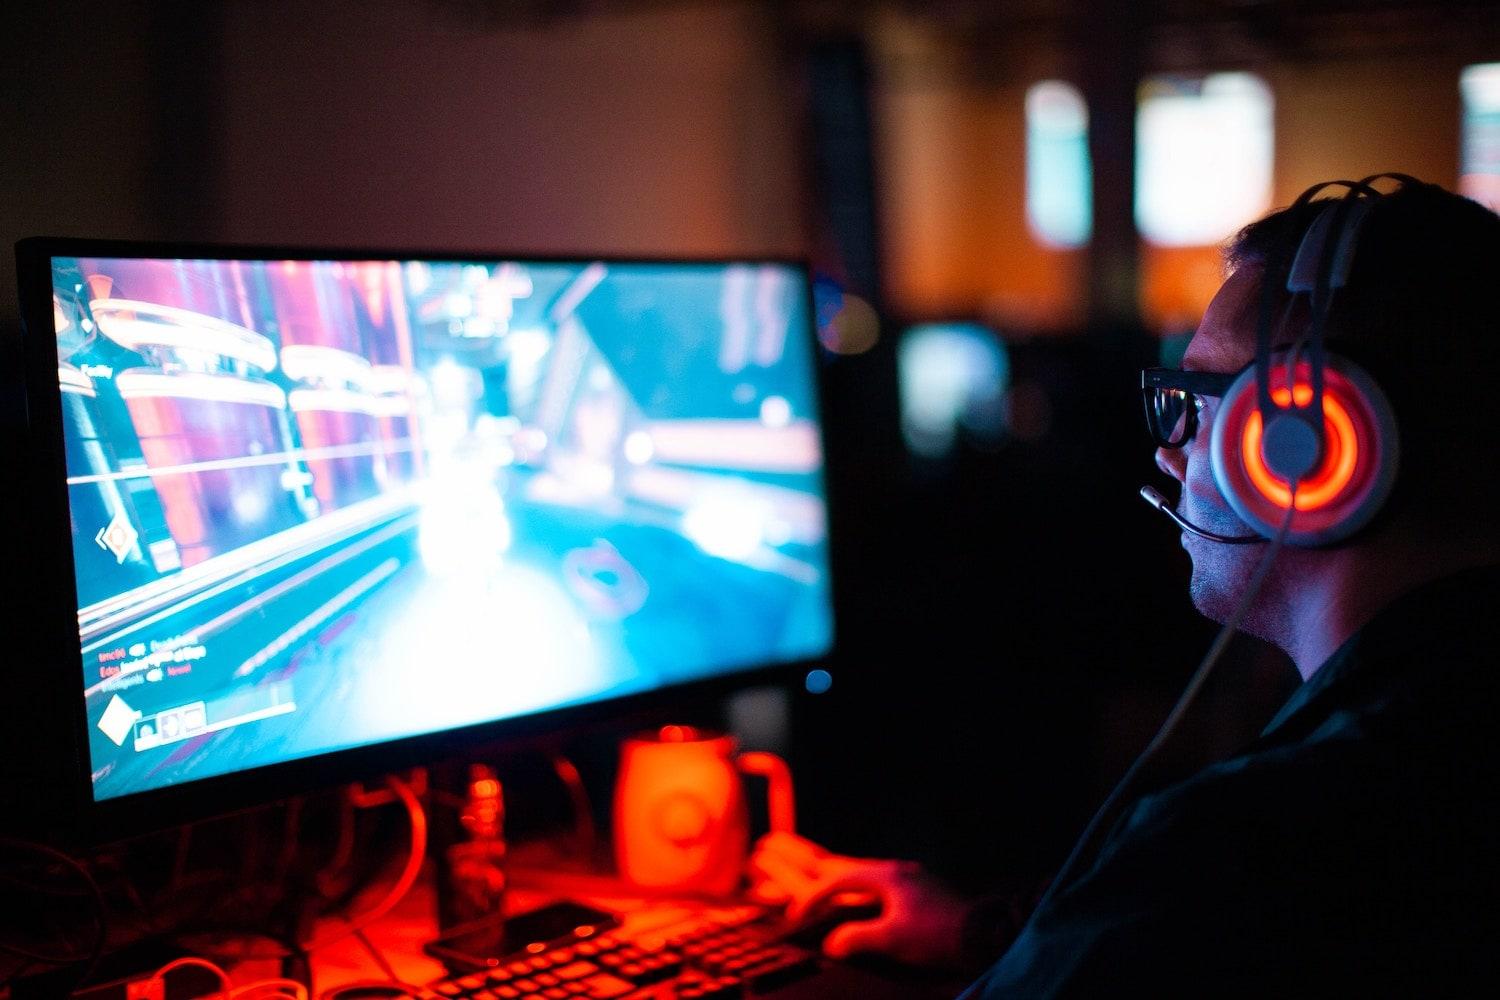
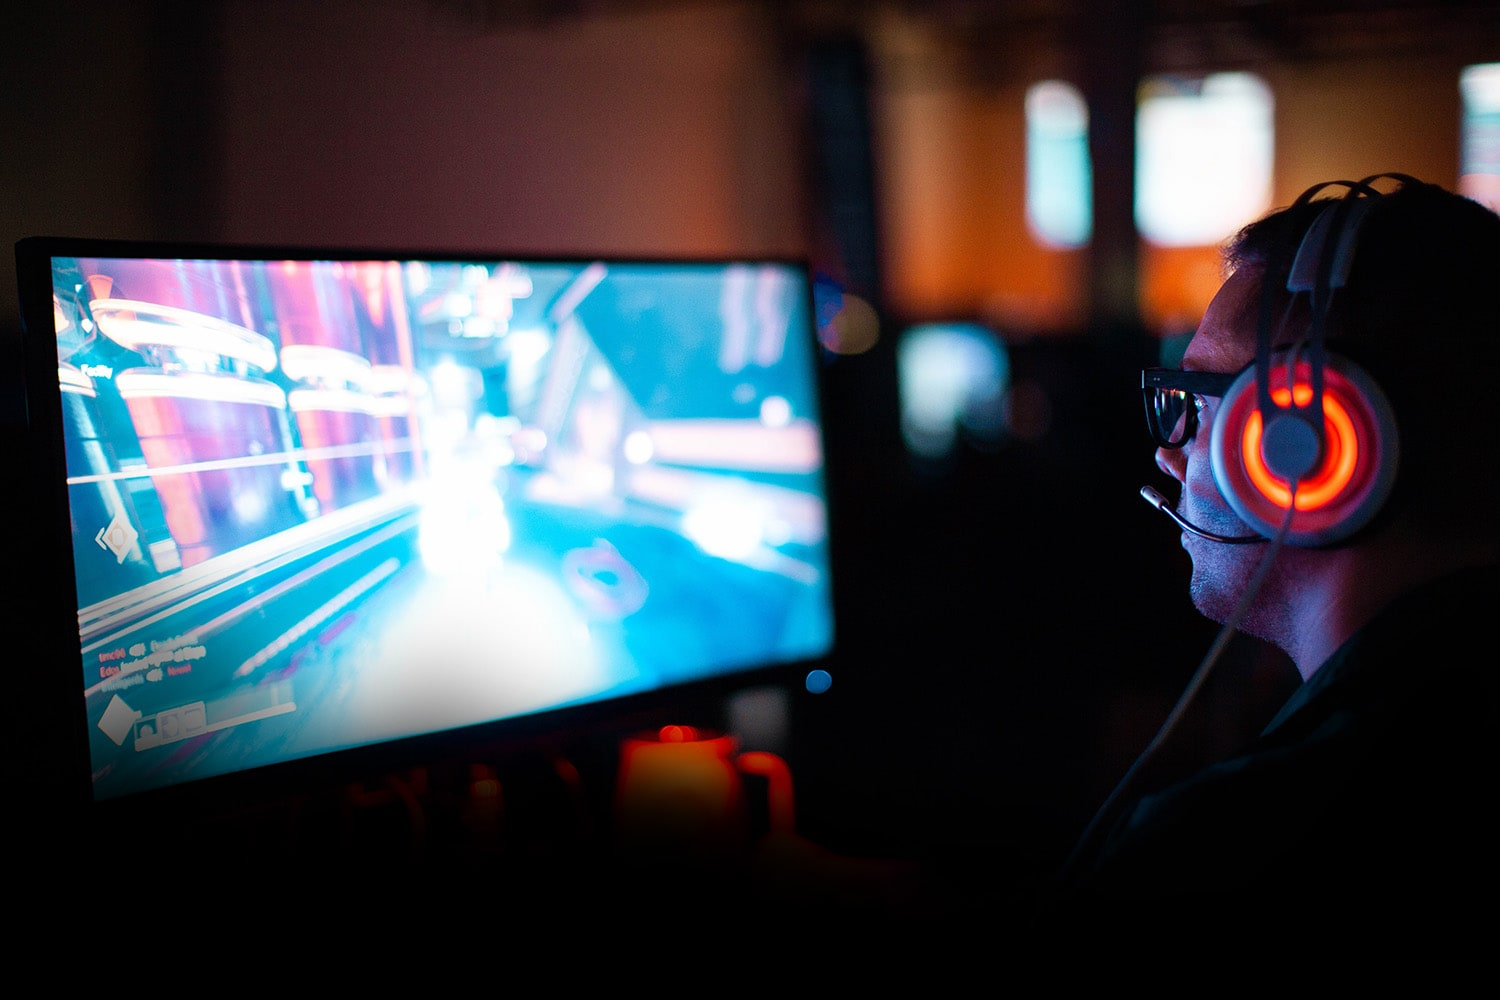
Optimize the background styling

diff --git a/public/assets/styles.css b/public/assets/styles.css
@@ -60,8 +60,8 @@ body {
   font-weight: 300;
   line-height: 1.5;
   color: var(--white);
-  background: url('bg.jpg') center center fixed no-repeat var(--gray-900);
-  background-size: cover;
+  background: url('bg.jpg') top center no-repeat var(--black);
+  background-size: contain;
 }
 
 /*============= Base layout & styles =============*/
